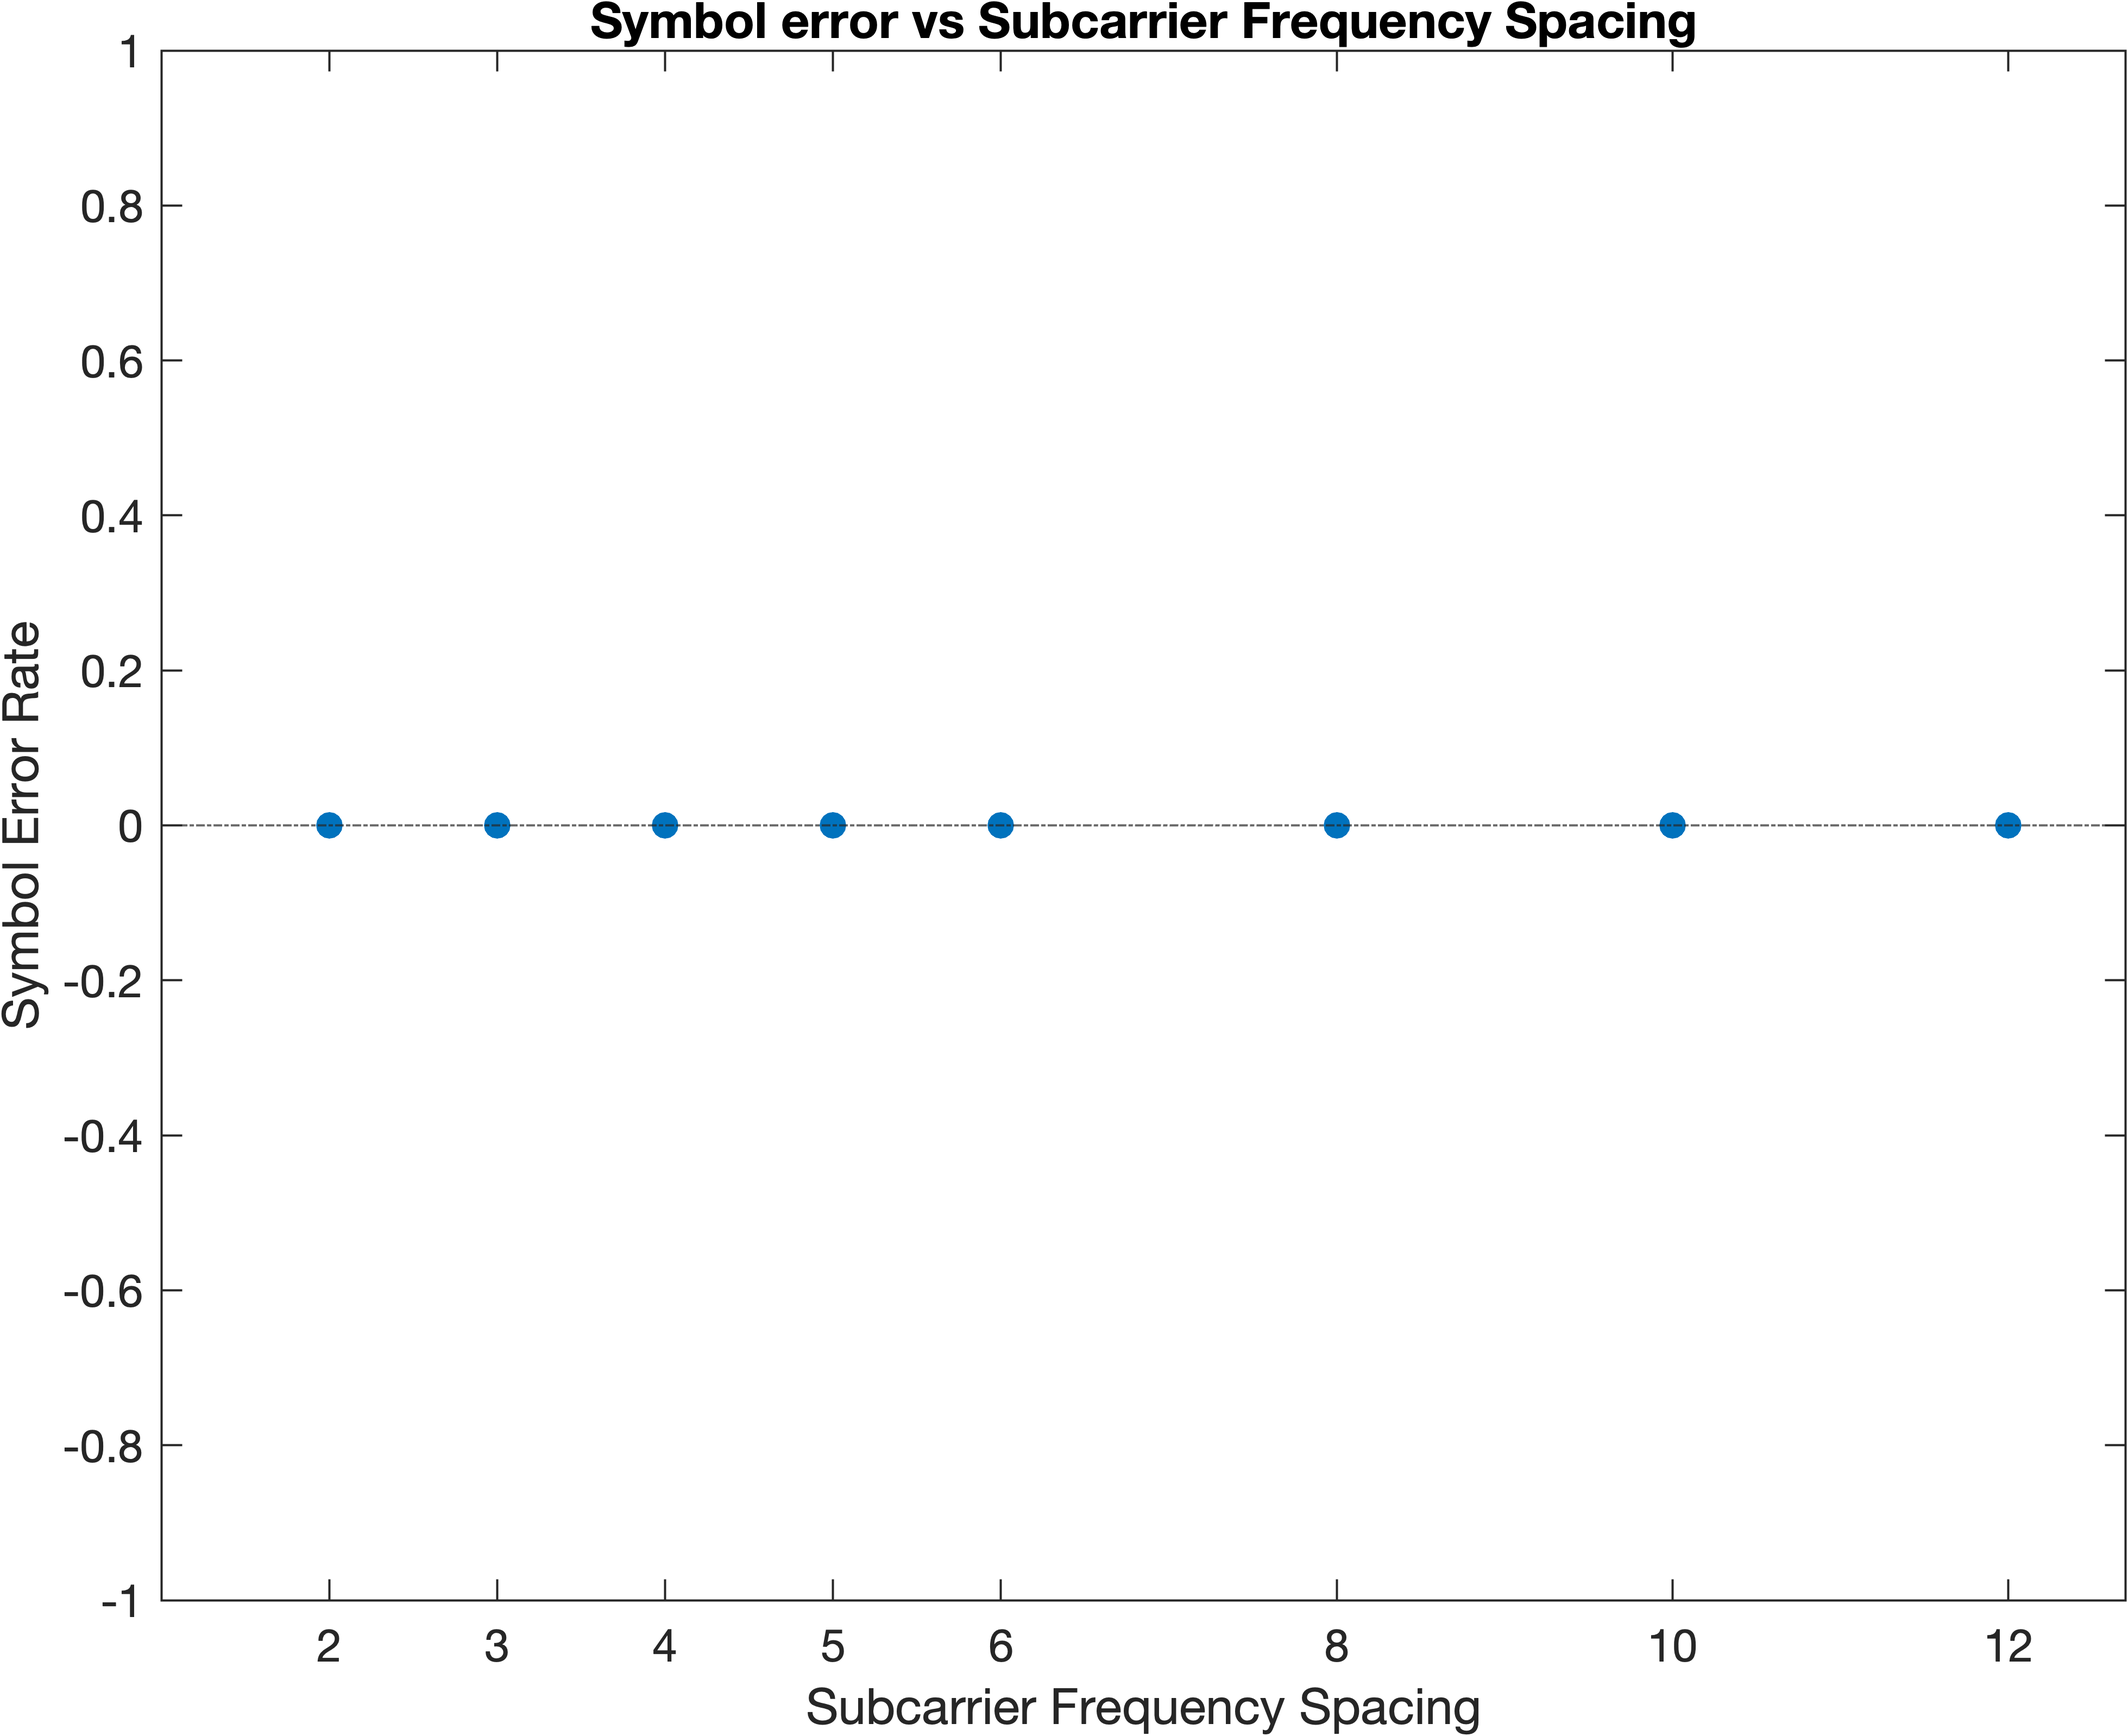
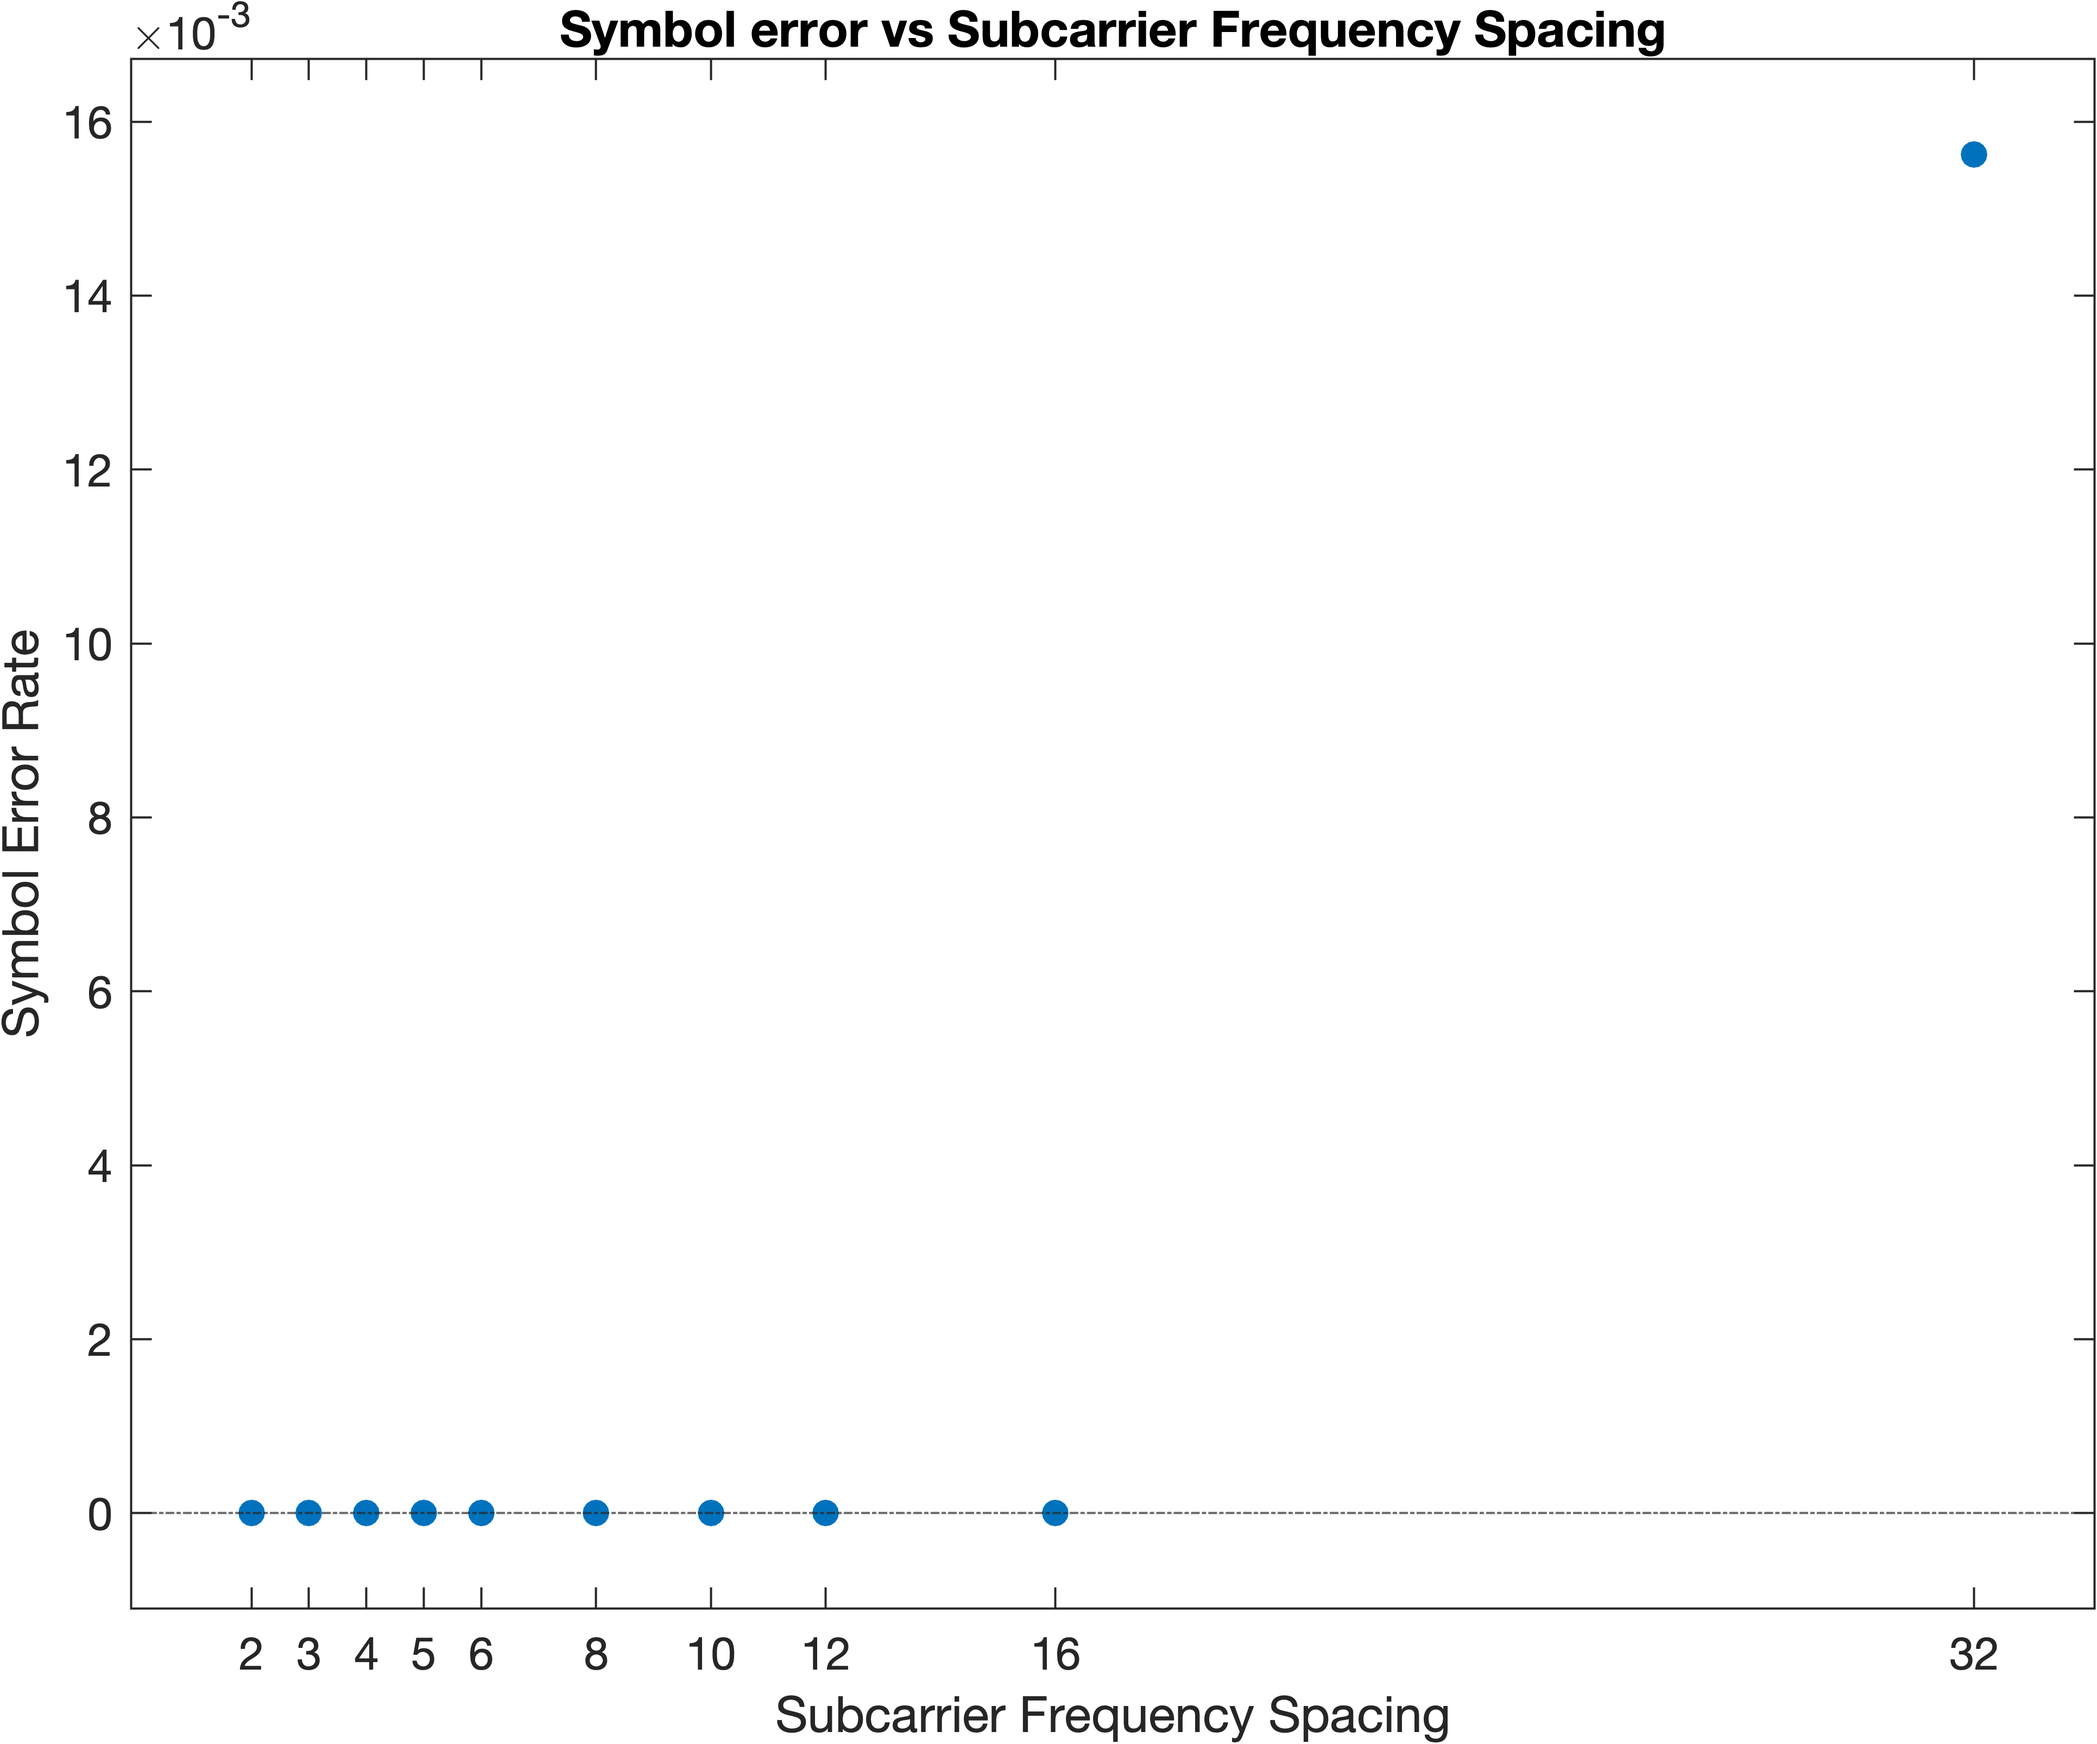
plot

diff --git a/project_matlab/main.m b/project_matlab/main.m
@@ -8,7 +8,7 @@ addpath('plots/');
 
 
 % Configuration Values
-conf.audiosystem = 'matlab'; % Values: 'matlab','native','bypass'
+conf.audiosystem = 'bypass'; % Values: 'matlab','native','bypass'
 conf.data_type = "random"; % Values: 'image', 'random'
 
 conf.enable_phase_tracking = false;
@@ -173,3 +173,21 @@ xticks(frequency_spacing_list)
 
 
 exportgraphics(gcf,'plots/SER_FreqSpacing_test.png','Resolution',600)
+
+%% for plot only, we did not do semilog
+
+figure();
+frequency_spacing_list = [2, 3, 4, 5, 6, 8, 10, 12, 16, 32];
+SER_list = [0.004, 0, 0, 0, 0.001, 0.001, 0.002, 0.012, .015, 0.08];
+
+semilogy(frequency_spacing_list, SER_list, '.', 'MarkerSize',20);
+title("Symbol error vs Subcarrier Frequency Spacing");
+xlabel("Subcarrier Frequency Spacing");
+ylabel("Symbol Error Rate");
+axis padded;
+yline(0, '-.');
+xticks(frequency_spacing_list)
+
+
+
+exportgraphics(gcf,'plots/SER_FreqSpacing_test_plot.png','Resolution',600)
